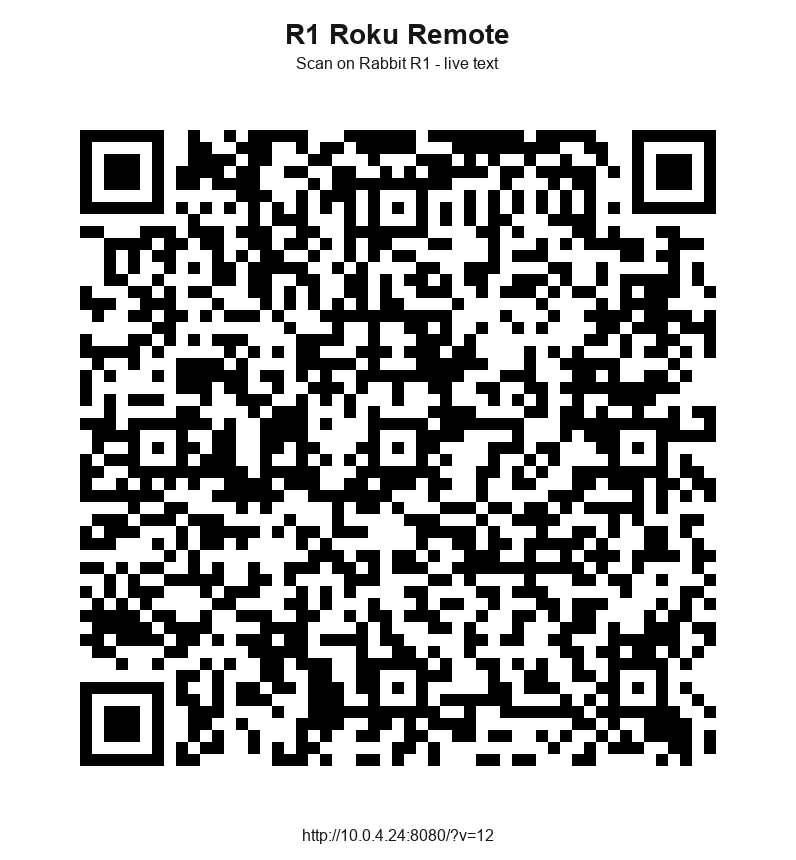
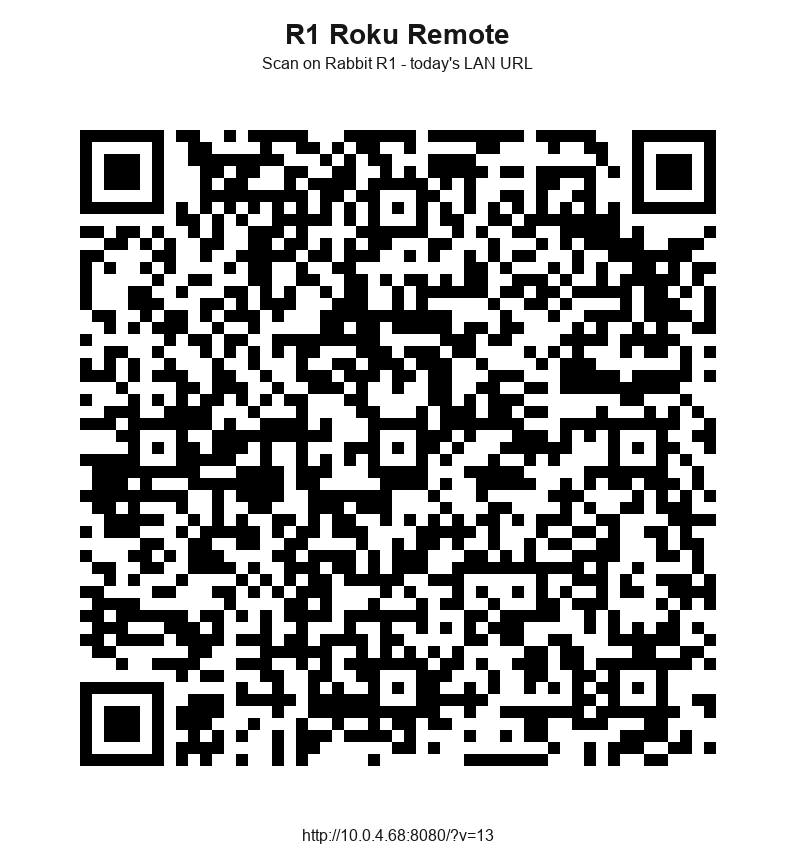
Update local install URL

Changed region(s): [[0.0905, 0.1512, 0.9045, 0.907], [0.3317, 0.0605, 0.6633, 0.0907], [0.4824, 0.9674, 0.5126, 0.9977]]

diff --git a/web-creation/index.html b/web-creation/index.html
@@ -112,6 +112,6 @@
             <p id="voiceStatus">Text sends as you speak or type.</p>
         </section>
     </main>
-    <script src="./js/app.js?v=12"></script>
+    <script src="./js/app.js?v=13"></script>
 </body>
 </html>
